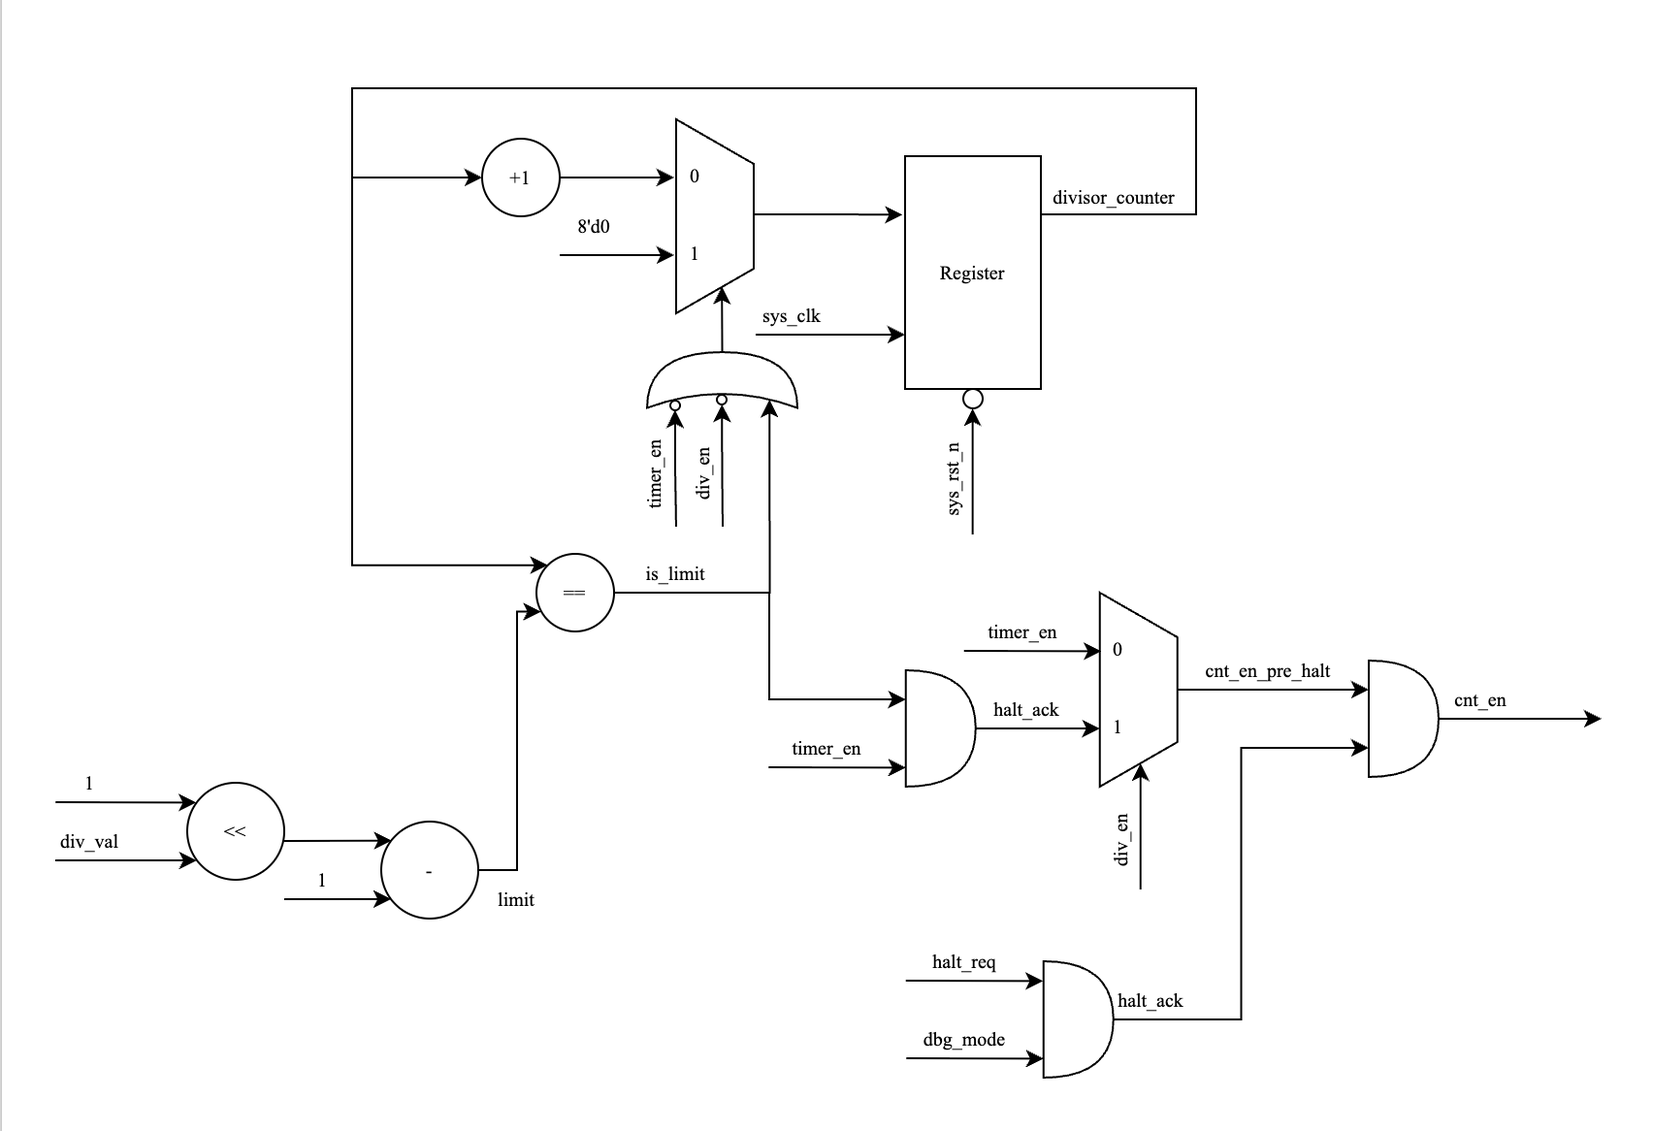
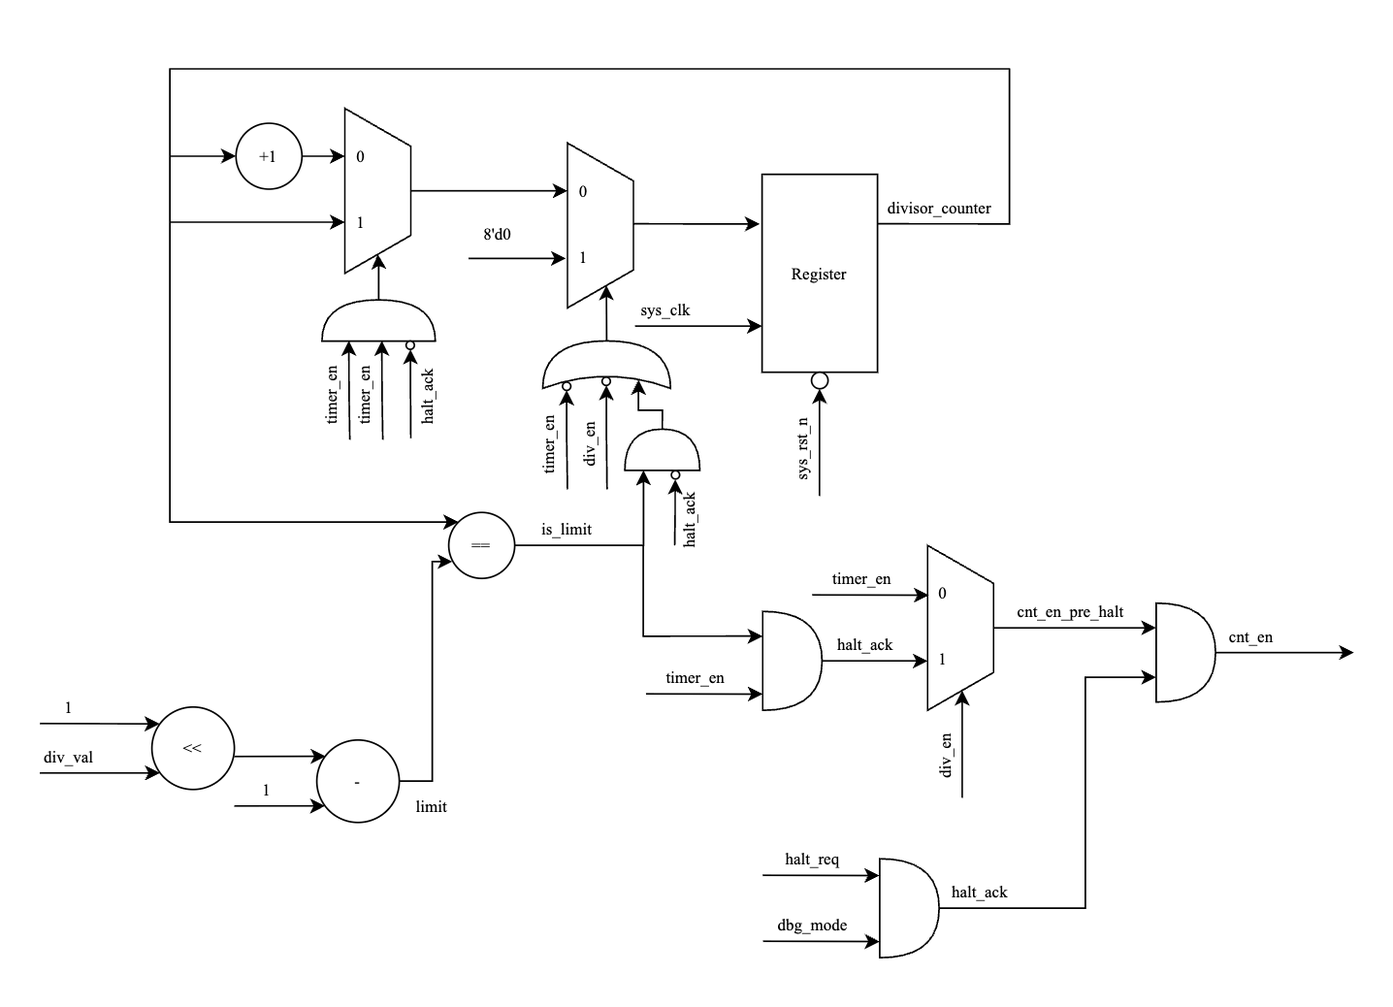
Feat: update report and counter control diagram

diff --git a/report/Timer Project.md b/report/Timer Project.md
@@ -1,5 +1,36 @@
 # Timer IP Core with APB Interface
 
+## Small note
+
+This is my first project of this scale, so there may be rough edges. Questions and suggestions are very welcome feel free to open an issue or a PR!
+
+## Table of Contents
+
+- [1. Overview](#1-overview)
+  - [1.1. Introduction](#11-introduction)
+  - [1.2. Main Features](#12-main-features)
+  - [1.3. Block Diagram](#13-block-diagram)
+- [2. Project Structure](#2-project-structure)
+- [3. Detailed Functional Description](#3-detailed-functional-description)
+  - [3.1. APB Slave (`apb_slave`)](#31-apb-slave-apb_slave)
+  - [3.2. Register File (`register`)](#32-register-file-register)
+  - [3.3. Counter Control (`counter_control`)](#33-counter-control-counter_control)
+  - [3.4. Counter (`counter`)](#34-counter-counter)
+  - [3.5. Interrupt Logic (`interrupt`)](#35-interrupt-logic-interrupt)
+- [4. Interface Signals](#4-interface-signals)
+- [5. Register Specification](#5-register-specification)
+  - [5.1. Register Summary](#51-register-summary)
+  - [5.2. Detailed Register Maps](#52-detailed-register-maps)
+    - [TCR (Timer Control Register)](#tcr-timer-control-register---offset-0x000)
+    - [TDR0/TDR1 (Timer Data Registers)](#tdr0tdr1-timer-data-registers---offsets-0x0040x008)
+    - [TCMP0/TCMP1 (Timer Compare Registers)](#tcmp0tcmp1-timer-compare-registers---offsets-0x00c0x010)
+    - [TIER (Timer Interrupt Enable Register)](#tier-timer-interrupt-enable-register---offset-0x014)
+    - [TISR (Timer Interrupt Status Register)](#tisr-timer-interrupt-status-register---offset-0x018)
+    - [THCSR (Timer Halt Control Status Register)](#thcsr-timer-halt-control-status-register---offset-0x01c)
+- [6. Verification Strategy](#6-verification-strategy)
+- [7. Verification Plan](#7-verification-plan)
+- [8. How to Run Simulation](#8-how-to-run-simulation)
+
 ## 1. Overview
 
 ### 1.1. Introduction
@@ -38,16 +69,31 @@ The repository is organized into the following directories:
 ```[]
 .
 ├── block_diagram/ # Contains the IP's block diagram image
-├── report/       # Coverage reports and other generated files
+├── report/       # Coverage reports and other files
 ├── rtl/          # All RTL source files (Verilog)
 ├── sim/          # Simulation scripts and environment
 ├── tb/           # Testbench files
-└── waveform/     # Saved waveform files (e.g., .wlf, .fsdb)
+└── waveform/     # Saved waveform files
 ```
 
 ## 3. Detailed Functional Description
 
 ### 3.1. APB Slave (`apb_slave`)
+
+#### Interface Signals
+
+| Signal Name      | Width   | Direction | Description                                 |
+|------------------|---------|-----------|---------------------------------------------|
+| `sys_clk`        | 1-bit   | Input     | System Clock                                |
+| `sys_rst_n`      | 1-bit   | Input     | Active-low Asynchronous Reset               |
+| `tim_psel`       | 1-bit   | Input     | APB Slave Select                            |
+| `tim_pwrite`     | 1-bit   | Input     | APB Write Control                           |
+| `tim_penable`    | 1-bit   | Input     | APB Enable                                  |
+| `reg_error_flag` | 1-bit   | Input     | Error flag from the Register File           |
+| `tim_pready`     | 1-bit   | Output    | APB Ready Signal                            |
+| `tim_pslverr`    | 1-bit   | Output    | APB Error Signal                            |
+| `wr_en`          | 1-bit   | Output    | Write Enable strobe to Register File        |
+| `rd_en`          | 1-bit   | Output    | Read Enable strobe to Register File         |
 
 #### Functional Description
 
@@ -78,6 +124,17 @@ We show three waveform, write, read and write error which is typical of apb inte
 
 ### 3.2. Register File (`register`)
 
+#### Interface Signals
+
+| Signal Group      | Direction     | Description                                                                                   |
+|-------------------|--------------|-----------------------------------------------------------------------------------------------|
+| APB Data/Control  | Input/Output | Connects to `apb_slave` for register access (`wr_en`, `rd_en`, `tim_paddr`, etc.).            |
+| Counter Status    | Input        | Receives the live 64-bit counter value (`cnt_val`).                                           |
+| Interrupt Status  | Input        | Receives the sticky interrupt status (`interrupt_status`).                                    |
+| Halt Status       | Input        | Receives the halt acknowledge status (`halt_ack_status`).                                     |
+| Control Outputs   | Output       | Drives control signals to other modules (e.g., `timer_en`, `div_val`, `compare_val`).         |
+| Command Outputs   | Output       | Drives command pulses to other modules (e.g., `counter_clear`, `interrupt_clear`).            |
+
 #### Functional Description
 
 The `register` module is the control hub of the IP. It contains all user-accessible registers and orchestrates the behavior of the other modules.
@@ -87,7 +144,21 @@ The `register` module is the control hub of the IP. It contains all user-accessi
 - **Read Logic:** For read operations (`rd_en` asserted), a large multiplexer selects the appropriate data source—either an internal configuration register (like `tcr_reg`) or a live status signal from another module (like `cnt_val` or `interrupt_status`)—and drives it onto `tim_prdata` .
 - **Error Logic:** It contains the logic to detect prohibited operations. It asserts `reg_error_flag` under two conditions: (1) an attempt is made to change `div_en` or `div_val` while the timer is running (`timer_en` is high), or (2) a write attempts to set `div_val` to a reserved value greater than 8 .
 
-### 2.3. Counter Control (`counter_control`)
+### 3.3. Counter Control (`counter_control`)
+
+#### Interface Signals
+
+| Signal Name      | Width   | Direction | Description                                      |
+|------------------|---------|-----------|--------------------------------------------------|
+| `sys_clk`        | 1-bit   | Input     | System Clock                                     |
+| `sys_rst_n`      | 1-bit   | Input     | Active-low Asynchronous Reset                    |
+| `timer_en`       | 1-bit   | Input     | Master timer enable from Register File           |
+| `div_en`         | 1-bit   | Input     | Divisor mode enable from Register File           |
+| `div_val`        | 4-bit   | Input     | Divisor value from Register File                 |
+| `halt_req`       | 1-bit   | Input     | Halt request from Register File                  |
+| `dbg_mode`       | 1-bit   | Input     | Top-level debug mode signal                      |
+| `cnt_en`         | 1-bit   | Output    | Qualified count enable pulse to Counter          |
+| `halt_ack_status`| 1-bit   | Output    | Halt acknowledge status to Register File         |
 
 #### Functional Description
 
@@ -100,6 +171,7 @@ The `counter_control` module's sole purpose is to generate the final, qualified 
 - **Halt Logic**: The final `cnt_en` output is gated by the halt logic. The signal is forced to '0' if a halt is acknowledged (`halt_ack_status` is high), effectively freezing the counter regardless of other settings. `halt_ack_status` is asserted only when both `halt_req` and the top-level `dbg_mode` input are high.
 
 #### Logic Diagram
+
 ![Logic Diagram of Counter Control module](../block_diagram/counter_control.png)
 
 #### Waveform Analysis
@@ -115,7 +187,19 @@ This waveform demonstrates how the `cnt_en` pulse frequency changes based on dif
 ![Counter Control waveform with div val = 3](../waveform/image/counter_control_div3.png)
 **div\_val = 3 (Divide by 8)**: The limit is $(2^3-1) = 7$. A `cnt_en` pulse is generated every **8** clock cycles, causing the main counter to increment at one-eighth the speed of the system clock.
 
-### 2.4. Counter (`counter`)
+### 3.4. Counter (`counter`)
+
+#### Interface Signals
+
+| Signal Name         | Width    | Direction | Description                                 |
+|---------------------|----------|-----------|---------------------------------------------|
+| `sys_clk`           | 1-bit    | Input     | System Clock                                |
+| `sys_rst_n`         | 1-bit    | Input     | Active-low Asynchronous Reset               |
+| `cnt_en`            | 1-bit    | Input     | Count enable pulse from Counter Control     |
+| `counter_clear`     | 1-bit    | Input     | Clears the counter to zero                  |
+| `counter_write_data`| 32-bit   | Input     | 32-bit data for direct write operations     |
+| `counter_write_sel` | 2-bit    | Input     | Selects lower (`'b01`) or upper (`'b10`) half for writes |
+| `cnt_val`           | 64-bit   | Output    | The current 64-bit counter value            |
 
 #### Functional Description
 
@@ -137,12 +221,11 @@ The logic consists of a 64-bit register with prioritized synchronous control. Th
 
 This waveform shows how the testbench can directly load a value into the 64-bit counter register.
 
-<!-- Need to fix this -->
-- **Write to TDR1**: An APB write is performed to the `TDR1` address (`0x008`) with the data `0xBEEF_BEEF`. The `register` module asserts `counter_write_sel` with a value of `2'b10`, loading the data into the upper 32 bits of `counter_reg`.
-- **Write to TDR0**: Immediately following, an APB write to the `TDR0` address (`0x004`) with the data `0x1234_5678` occurs. The `register` module asserts `counter_write_sel` with `2'b01`, loading the data into the lower 32 bits.
-- **Result**: The `cnt_val` output now reflects the full 64-bit value `{32'hAAAA_BBBB, 32'h1234_5678}`. This feature is useful for setting a specific starting count or for restoring a timer's state.
+- **Write to TDR1**: An APB write is performed to the `TDR0` address (`0x004`) with the data `0xBEEF_BEEF`. The `register` module asserts `counter_write_sel` with a value of `2'b01`, loading the data into the lower 32 bits of `counter_reg`.
+- **Write to TDR0**: Immediately following, an APB write to the `TDR1` address (`0x008`) with the data `0xDEAD_DEAD` occurs. The `register` module asserts `counter_write_sel` with `2'b10`, loading the data into the lower 32 bits.
+- **Result**: The `cnt_val` output now reflects the full 64-bit value `{32'hDEAD_DEAD, 32'hBEEF_BEEF}` and upon the next cnt_en signal is it incremented to `64'hDEAD_DEAD_BEEF_BEF0`.
 
-### 3.4. Interrupt Logic (`interrupt`)
+### 3.5. Interrupt Logic (`interrupt`)
 
 #### Functional Description
 
@@ -165,12 +248,12 @@ The logic is composed of three main parts: the 64-bit equality comparator, the D
 
 This waveform demonstrates the full interrupt lifecycle.
 
-1. The `compare_val` is set to `0x0...0A`. `interrupt_en` is high.
-2. The `cnt_val` increments and eventually reaches `0x0...0A`.
+1. The `compare_val` is set to `0x5`. `interrupt_en` is high.
+2. The `cnt_val` increments and eventually reaches `0x5`.
 3. On the clock edge after the match, `interrupt_status` asserts high. Because `interrupt_en` is high, `tim_int` also asserts high.
-4. On the next cycle, `cnt_val` increments to `0x0...0B`. The match condition is no longer true, but both `interrupt_status` and `tim_int` remain high due to the sticky nature of the status bit.
-5. Later, software performs an APB write to `TISR`, which generates a one-cycle `interrupt_clear` pulse.
-6. This pulse asynchronously clears the `interrupt_status` flip-flop, causing both `interrupt_status` and `tim_int` to de-assert.
+4. On the next cycle, `cnt_val` increments to `0x6`. The match condition is no longer true, but both `interrupt_status` and `tim_int` remain high due to the sticky nature of the status bit.
+5. Performs an APB write to `TISR`, which generates a one-cycle `interrupt_clear` pulse.
+6. This pulse synchronously clears the `interrupt_status` flip-flop, causing both `interrupt_status` and `tim_int` to de-assert.
 
 ## 4. Interface Signals
 
@@ -218,9 +301,9 @@ The top-level module `timer_top` has the following interface signals:
 
 |Bit(s)|Field Name|Type|Description|
 |---|---|---|---|
-|31:12|Reserved|RO|Read as zero.|
+|31:12|Reserved|RO|Reserved|
 |11:8|`div_val`|RW|Sets the counter divisor when `div_en` is active. A value of `N` divides the count rate by 2N. Values `0x9`-`0xF` are prohibited. Default `0x1` (/2).|
-|7:2|Reserved|RO|Read as zero.|
+|7:2|Reserved|RO|Reserved|
 |1|`div_en`|RW|**0**: Counter increments with `sys_clk` (default). **1**: Counter increments at the rate specified by `div_val`.|
 |0|`timer_en`|RW|**0**: Timer is disabled, and the counter is held at reset. **1**: Timer is enabled and counting.|
 
@@ -240,7 +323,7 @@ The top-level module `timer_top` has the following interface signals:
 
 |Bit(s)|Field Name|Type|Description|
 |---|---|---|---|
-|31:1|Reserved|RO|Read as zero.|
+|31:1|Reserved|RO|Reserved.|
 |0|`int_en`|RW|**0**: The timer interrupt (`tim_int`) is disabled (masked). **1**: The timer interrupt is enabled.|
 
 #### **TISR (Timer Interrupt Status Register)** - Offset: `0x018`
@@ -249,7 +332,7 @@ The top-level module `timer_top` has the following interface signals:
 
 |Bit(s)|Field Name|Type|Description|
 |---|---|---|---|
-|31:1|Reserved|RO|Read as zero.|
+|31:1|Reserved|RO|Reserved.|
 |0|`int_st`|RW1C|**Interrupt Status (Sticky Bit)**: **0**: No match has occurred. **1**: A counter/compare match has occurred. This bit remains high until cleared by writing a '1' to it.|
 
 #### **THCSR (Timer Halt Control Status Register)** - Offset: `0x01C`
@@ -258,7 +341,7 @@ The top-level module `timer_top` has the following interface signals:
 
 |Bit(s)|Field Name|Type|Description|
 |---|---|---|---|
-|31:2|Reserved|RO|Read as zero.|
+|31:2|Reserved|RO|Reserved|
 |1|`halt_ack`|RO|**Halt Acknowledge**: **0**: Timer is not halted. **1**: Timer is halted (occurs only when `halt_req=1` and `dbg_mode=1`).|
 |0|`halt_req`|RW|**Halt Request**: **0**: No halt request. **1**: Request to halt the timer. The timer will only halt if the `dbg_mode` input is also high.|
 
@@ -270,7 +353,43 @@ The IP was verified using a self-checking testbench (`tb/test_bench.v`) written 
 - **Coverage:** **100% functional coverage** was achieved, with all features in the verification plan tested.
 - **Code Coverage:** Using coverage analysis tools, **100% Code Coverage** (Statement, Branch, Condition, Expression, FSM) and **100% Toggle Coverage** were achieved for the DUT after applying necessary exclusions for untestable logic (e.g., read-only reserved bits). The exclusion file can be found at `sim/exclude.do`.
 
-## 7. How to Run Simulation
+## 7. Verification Plan
+
+This document outlines the verification strategy for the Timer IP. The plan is derived directly from the implemented test cases in the `test_bench.v` module. Each item corresponds to a specific test sequence designed to validate a feature or corner case of the design.
+
+| Test Case Name (in TB) | Item Name | Description | Test Sequence | Pass Condition |
+| :--- | :--- | :--- | :--- | :--- |
+| **Reset and Register Access** | | | | |
+| `RESET_DEFAULTS` | Register Default Values | Verify all configuration and status registers reset to their specified default values. | 1. Apply system reset. 2. Read TCR, TCMP0/1, TIER, and THCSR registers. | The read-back values must match their specified defaults: `tcr` = `0x0100`, `tcmp0`/`tcmp1` = `0xFFFFFFFF`, `tier` = `0x0`, `thcsr` = `0x0`. |
+| `RW_ACCESS_TCMP` | Basic Read/Write Access | Verify a standard read/write register (`TCMP0`) can be written to and read from correctly. | 1. Write `0xDEADBEEF` to `TCMP0_ADDR`. 2. Read back from `TCMP0_ADDR`. | The data read back is equal to `0xDEADBEEF`. |
+| `BYTE_ACCESS_*` | Byte Strobe Access | Verify that byte strobes (`tim_pstrb`) correctly enable writes to specific byte lanes while leaving other bytes unchanged. | 1. **TCR**: Write to byte 1 only (`pstrb=4'b0010`). 2. **TCMP0**: Write to bytes 0 and 3 only (`pstrb=4'b1001`). 3. **Comprehensive**: Perform writes to TCMP, TIER, and THCSR with various strobes disabled, including no-op writes (`pstrb=4'b0000`)| In all cases, only the byte lanes corresponding to an active strobe bit are modified. All other bytes in the register remain unchanged. |
+| **Counter Functionality** | | | | |
+| `COUNT_DEFAULT_MODE` | Default Counting Mode | Verify the counter increments on every clock cycle when `div_en=0` and `timer_en=1`. | 1. Set `timer_en=1`. 2. Wait for a fixed number of clock cycles (e.g., 10). 3. Read the counter value from `TDR0`. | The final count matches the number of elapsed cycles [accounting for simulation timing artifacts]. |
+| `COUNT_DIV_MODE_*` | Divided Counting Modes | Verify the counter increments at the correct divided rate for all supported `div_val` settings (0 through 8). | For each `div_val` setting: 1. Set `timer_en=1` and `div_en=1`. 2. Set the desired `div_val`. 3. Wait for a fixed number of cycles. 4. Read the counter value. | The final count correctly reflects the number of increment pulses generated, which should be `(cycles_waited / 2^div_val)`. |
+| `COUNT_CLEAR_ON_DISABLE` | Hardware Counter Clear | Verify the counter is automatically cleared to `0` when `timer_en` transitions from high to low. | 1. Enable the timer and let it count for several cycles. 2. Disable the timer by writing `timer_en=0`. 3. Read the counter value from `TDR0`. | The read-back counter value is `0`. |
+| `COUNT_DIRECT_WRITE` | Direct Counter Write | Verify that software can write a specific value directly to the 64-bit counter via the `TDR0` and `TDR1` registers. | 1. Disable the timer. 2. Write a 32-bit value to `TDR1`. 3. Write a 32-bit value to `TDR0`. 4. Read back from both `TDR0` and `TDR1`. | The values read from `TDR0` and `TDR1` match the values that were written. |
+| `COUNT_ROLLOVER_32B` | 32-bit Rollover | Verify the counter correctly handles a rollover from the lower 32 bits to the upper 32 bits. | 1. Write `0x00000000` to `TDR1` and `0xFFFFFFFF` to `TDR0`. 2. Enable the timer and let it run for several cycles. 3. Read `TDR0` and `TDR1`. | The value of `TDR1` has incremented to `1`, and `TDR0` has wrapped around and continued counting from `0`. |
+| **Interrupt Functionality** | | | | |
+| `INTERRUPT_TRIGGER_STICKY` | Interrupt Trigger and Status | Verify the interrupt (`tim_int`) asserts when `cnt_val` equals `compare_val`, and that the status bit (`TISR[0]`) remains set ("sticky") even after the counter has passed the compare value. | 1. Set `TDR` to a value just below `TCMP`. 2. Enable the timer and the interrupt (`TIER[0]=1`). 3. Let the timer run past the compare value. 4. Check `tim_int` and read `TISR`. | `tim_int` asserts on the cycle of the match. The `TISR[0]` bit is set and remains set on subsequent cycles. |
+| `INTERRUPT_MASK` | Interrupt Masking | Verify that setting `TIER[0]=0` masks the `tim_int` output but does not affect the sticky status bit in `TISR`. | 1. With an interrupt pending (`TISR[0]=1`), write `0` to `TIER`. 2. Check the `tim_int` output and read `TISR`. | The `tim_int` output is low, but `TISR[0]` remains high. |
+| `INTERRUPT_CLEAR` | Interrupt Clearing | Verify that writing a '1' to `TISR[0]` clears the pending interrupt status and de-asserts `tim_int`. | 1. With an interrupt pending, write `1` to `TISR`. 2. Read `TISR`. | `TISR[0]` is cleared to `0`, and `tim_int` is low. |
+| `INTERRUPT_CLEAR_NEGATIVE`| Negative Interrupt Clear | Verify that writing a '0' to a pending `TISR[0]` has no effect. | 1. With an interrupt pending, write `0` to `TISR`. 2. Read `TISR`. | `TISR[0]` remains `1`. |
+| `INTERRUPT_CLEAR_PRIORITY`| Clear vs. Match Priority | Verify that if an interrupt clear command arrives in the same cycle as a new match event, the clear operation takes priority. | 1. Pre-load the counter to a value that will match the compare value on the next cycle. 2. Initiate an APB write to `TISR` to clear the interrupt, timed to land on the same cycle as the match. | The interrupt status bit `TISR[0]` remains `0`. |
+| **Debug/Halt Functionality** | | | | |
+| `HALT_BASIC` / `HALT_ACK` | Halt Operation | Verify the counter stops when `dbg_mode=1` and `halt_req=1`, and that the halt is acknowledged. | 1. Enable the timer. 2. Set `dbg_mode=1` and write `halt_req=1` to `THCSR`. 3. Read the counter value, wait, and read again. 4. Read `THCSR`. | The `halt_ack` bit (`THCSR[1]`) is `1`. The counter value does not change while halted. |
+| `HALT_RESUME` | Halt Resume | Verify the counter resumes counting after `halt_req` is cleared. | 1. While the timer is halted, write `halt_req=0` to `THCSR`. 2. Wait several cycles and read the counter value. | The `halt_ack` bit is `0`. The final counter value is greater than the value it had when halted. |
+| `HALT_NEGATIVE` / `HALT_NO_ACK` | Negative Halt Conditions | Verify the halt does not occur if only one of the required conditions (`dbg_mode=1` or `halt_req=1`) is met. | 1. Set `dbg_mode=0` but `halt_req=1`. 2. Let the timer run and check its value. 3. Read `THCSR`. | The `halt_ack` bit is `0`. The counter continues to increment normally. |
+| **Error Handling (`pslverr`)** | | | | |
+| `ERROR_FLAG_TIMER_RUNNING` | Prohibited Write (Running) | Verify `pslverr` is asserted when trying to change `div_val` or `div_en` while `timer_en=1`. | 1. Enable the timer. 2. Attempt to write a new value to `TCR` that changes the divisor settings. 3. Read `TCR` back after the failed write. | `tim_pslverr` asserts during the write transaction. The `TCR` value remains unchanged. |
+| `ERROR_FLAG_PROHIBITED_VAL` | Prohibited Write (Value) | Verify `pslverr` is asserted when writing a prohibited value (e.g., `0xF`) to `div_val`. | 1. Disable the timer. 2. Attempt to write a prohibited value to `div_val`. 3. Read `TCR` back. | `tim_pslverr` asserts during the write. The `TCR` value remains unchanged. |
+| `ERROR_CONCURRENT` | Concurrent Error Conditions | Verify `pslverr` is asserted if a single write attempts to trigger both error conditions simultaneously. | 1. Enable the timer. 2. Attempt a write to `TCR` that sets a prohibited `div_val`. | `tim_pslverr` asserts during the write transaction. |
+| **APB Protocol Corner Cases** | | | | |
+| `APB_ABORT` | Aborted Transaction | Verify that a transaction is correctly aborted if `tim_psel` is de-asserted during the `SETUP` phase. | 1. Initiate a write transaction but de-assert `tim_psel` after one cycle (in the `SETUP` phase). 2. Read the target register. | The target register's value is unchanged, confirming the write was aborted. |
+| `APB_BACK_TO_BACK` | Back-to-Back Transactions | Verify the slave correctly handles a write immediately followed by a read with no idle cycles in between. | 1. Manually sequence an APB write. 2. On the cycle immediately following the `ACCESS` phase of the write, begin the `SETUP` phase of a read to the same address. | The read transaction completes successfully and returns the data that was just written. |
+| `APB_SETUP_WAIT` | Setup Wait State | Verify the slave can handle a wait state by remaining in the `SETUP` phase. | 1. Manually sequence an APB transaction. 2. Hold the FSM in the `SETUP` state for several cycles by keeping `tim_penable=0`. 3. Complete the transaction. | The write/read operation completes successfully after the wait state. |
+| `APB_ACCESS_WAIT` | Access Wait State | Verify the slave correctly de-asserts `tim_pready` if `tim_penable` goes low during the `ACCESS` phase. | 1. Manually enter the `ACCESS` phase. 2. De-assert `tim_penable` for several cycles. 3. Re-assert `tim_penable` to complete the transaction. | The transaction completes successfully once `tim_penable` is re-asserted. |
+
+## 8. How to Run Simulation
 
 The simulation can be run using a script located in the `sim/` directory. From the `sim/` directory, execute the following command:
 
@@ -281,9 +400,3 @@ make all_wave
 ```
 
 This will compile the RTL and testbench, run the full regression test suite, and generate a coverage report in the `Report/` directory.
-
-## 8. Revision History
-
-|Date|Version|Description|Author|
-|---|---|---|---|
-|2025-10-11|1.0|Initial release of the design and report|Le Phuc Khang|
